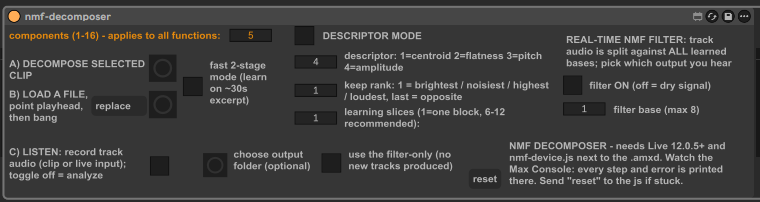
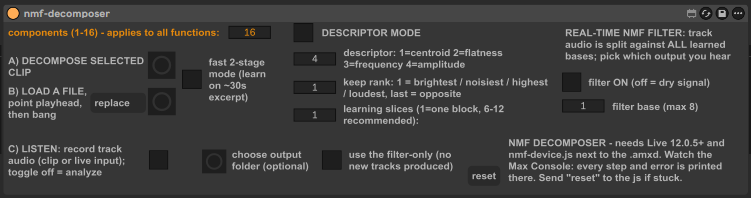
freq

diff --git a/README.md b/README.md
@@ -46,7 +46,7 @@ In all cases: press **Cmd/Ctrl-G** afterwards to group the new tracks
 | **components** (1-16) | How many layers to split into. |
 | **fast 2-stage** (toggle) | Learn on a ~30 s excerpt instead of the whole file, then apply. Much faster on long files, same kind of output. |
 | **descriptor mode** (toggle) | Output 2 layers instead of N: one chosen by ranking + "rest" (see §3). |
-| **descriptor** (1-4) | Ranking rule: 1=centroid 2=flatness 3=pitch 4=amplitude. |
+| **descriptor** (1-4) | Ranking rule: 1=centroid 2=flatness 3=frequency 4=amplitude. |
 | **keep rank** (1-16) | Which ranked component to isolate. Rank 1 = highest value, last rank = lowest. |
 | **learning slices** (1-32) | 1 = learn from one ~30 s mid-file block. 6-12 = learn from short slices spread evenly across the file (more representative). |
 | **filter-only** (toggle) | No tracks, no files, no folder needed — the run only reloads the real-time filter. Fastest option. |
@@ -66,13 +66,12 @@ exactly two: one picked by ranking, and everything else summed as
 |---|---|---|
 | 1 centroid | brightest | darkest |
 | 2 flatness | noisiest | most tonal |
-| 3 pitch | highest peak | lowest peak |
+| 3 frequency | highest peak | lowest peak |
 | 4 amplitude | loudest | quietest |
 
 Example: 10 components, descriptor 4, keep rank 10 → isolate the
 quietest layer. The console prints the full ranking with scores.
-"Pitch" ranks by each component's strongest spectral peak (a proxy,
-not true pitch tracking).
+"Frequency" ranks by each component's strongest spectral peak.
 
 ---
 